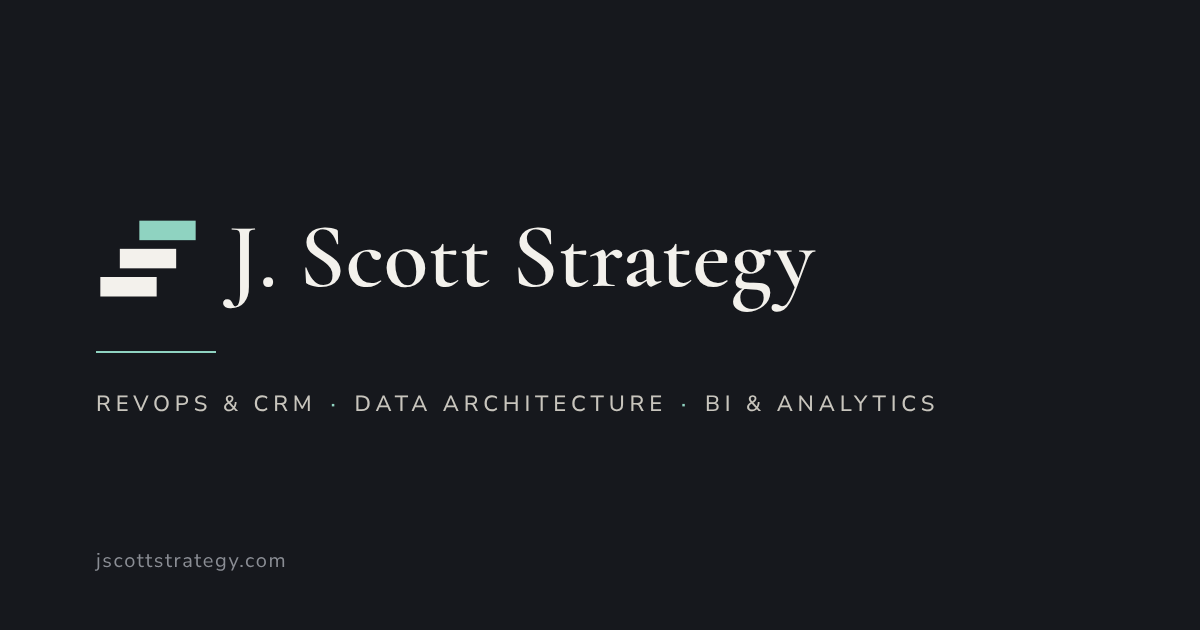
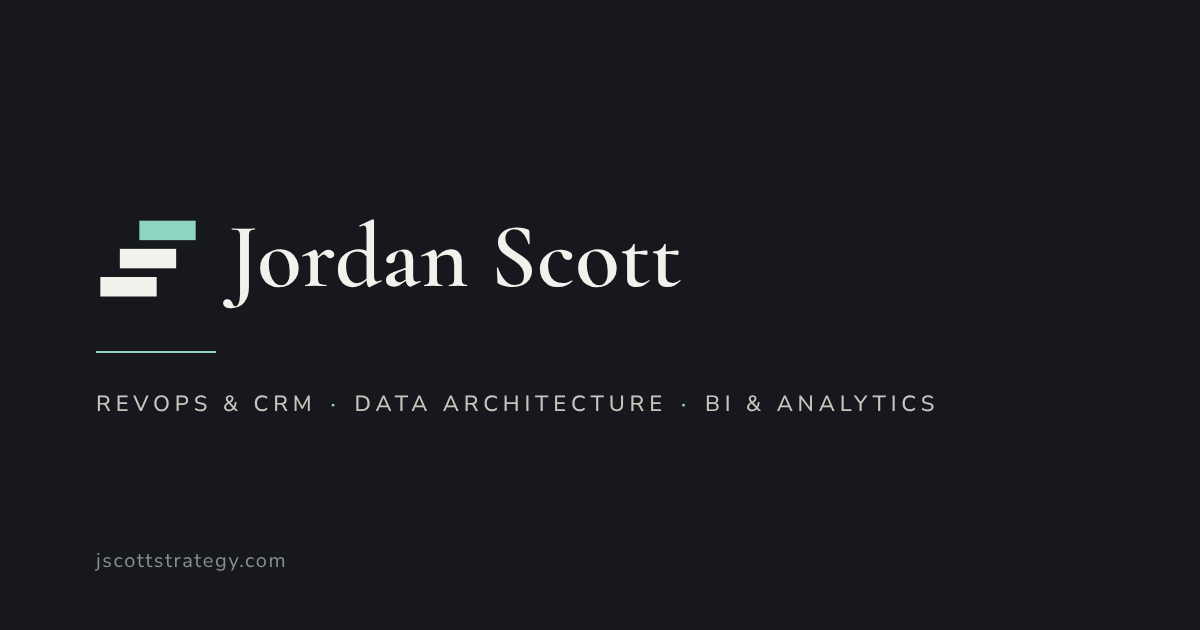
Rebrand to Jordan Scott; swap in family portrait
Claude-Session: https://claude.ai/code/session_01PBuMgssTntEE4eNKwRLDDM

Changed region(s): [[0.2158, 0.3619, 0.6783, 0.5127]]

diff --git a/index.html b/index.html
@@ -3,21 +3,21 @@
 <head>
 <meta charset="utf-8">
 <meta name="viewport" content="width=device-width, initial-scale=1">
-<title>J. Scott Strategy – RevOps, Data Architecture &amp; BI Consulting</title>
+<title>Jordan Scott – RevOps, Data Architecture &amp; BI Consulting</title>
 <link rel="icon" href="favicon.svg" type="image/svg+xml">
 <link rel="icon" href="favicon-32.png" sizes="32x32" type="image/png">
 <link rel="apple-touch-icon" href="apple-touch-icon.png">
 <meta name="theme-color" content="#16181D">
 <link rel="canonical" href="https://jscottstrategy.com/">
 <meta property="og:type" content="website">
-<meta property="og:site_name" content="J. Scott Strategy">
+<meta property="og:site_name" content="Jordan Scott">
 <meta property="og:url" content="https://jscottstrategy.com/">
-<meta property="og:title" content="J. Scott Strategy | RevOps, Data Architecture &amp; BI Consulting">
+<meta property="og:title" content="Jordan Scott | RevOps, Data Architecture &amp; BI Consulting">
 <meta property="og:description" content="RevOps and CRM, data architecture on Google BigQuery, and BI and analytics engineering for growth-stage and lower-middle-market companies.">
 <meta property="og:image" content="https://jscottstrategy.com/og-image.png">
 <meta property="og:image:width" content="1200">
 <meta property="og:image:height" content="630">
-<meta property="og:image:alt" content="J. Scott Strategy: RevOps &amp; CRM, Data Architecture, BI &amp; Analytics Engineering">
+<meta property="og:image:alt" content="Jordan Scott: RevOps &amp; CRM, Data Architecture, BI &amp; Analytics Engineering">
 <meta name="twitter:card" content="summary_large_image">
 <script type="application/ld+json">
 {
@@ -26,8 +26,11 @@
   {
    "@type": "ProfessionalService",
    "@id": "https://jscottstrategy.com/#business",
-   "name": "J. Scott Strategy",
-   "alternateName": "J Scott Strategy",
+   "name": "Jordan Scott",
+   "alternateName": [
+    "J. Scott Strategy",
+    "J Scott Strategy"
+   ],
    "url": "https://jscottstrategy.com/",
    "logo": "https://jscottstrategy.com/brand/icon-512.png",
    "image": "https://jscottstrategy.com/og-image.png",
@@ -114,7 +117,7 @@
    "@type": "WebSite",
    "@id": "https://jscottstrategy.com/#website",
    "url": "https://jscottstrategy.com/",
-   "name": "J. Scott Strategy",
+   "name": "Jordan Scott",
    "publisher": {
     "@id": "https://jscottstrategy.com/#business"
    }
@@ -282,7 +285,7 @@ nav a.cta{background:var(--ink);color:var(--ground);padding:12px 18px;font-weigh
 .chips li{font-family:'Nunito Sans',sans-serif;font-size:14px;letter-spacing:.06em;border:1px solid #B9B4A9;padding:8px 14px;background:var(--ground)}
 
 .about{padding-top:104px;padding-bottom:104px;grid-template-columns:repeat(auto-fit,minmax(min(100%,360px),1fr));gap:64px}
-.headshot{aspect-ratio:8.5/11;max-width:420px;width:100%;height:auto;align-self:start;background:#DCD8CF;border:1px solid #C9C4B9;display:flex;align-items:center;justify-content:center;color:var(--soft);font-size:14px;object-fit:cover;object-position:50% 30%}
+.headshot{aspect-ratio:8.5/11;max-width:420px;width:100%;height:auto;align-self:start;background:#DCD8CF;border:1px solid #C9C4B9;display:flex;align-items:center;justify-content:center;color:var(--soft);font-size:14px;object-fit:cover;object-position:50% 25%}
 .about h2{margin-bottom:24px}
 .about p{margin:0 0 18px;color:var(--muted)}
 .facts{display:grid;grid-template-columns:repeat(auto-fit,minmax(min(100%,220px),1fr));gap:24px;border-top:1px solid var(--line);padding-top:24px;margin-top:32px}
@@ -334,9 +337,9 @@ nav a.cta{background:var(--ink);color:var(--ground);padding:12px 18px;font-weigh
 
 <header>
   <div class="wrap nav">
-    <a class="brand" href="#top" aria-label="J. Scott Strategy home">
+    <a class="brand" href="#top" aria-label="Jordan Scott home">
       <svg width="34" height="28" viewBox="0 0 48 40" aria-hidden="true"><rect x="2" y="29" width="26" height="9" fill="currentColor"/><rect x="11" y="16" width="26" height="9" fill="currentColor"/><rect x="20" y="3" width="26" height="9" fill="#0B6B58"/></svg>
-      <span>J. Scott Strategy</span>
+      <span>Jordan Scott</span>
     </a>
     <button class="menu-toggle" type="button" aria-expanded="false" aria-controls="site-nav" aria-label="Open menu"><span class="bars" aria-hidden="true"></span></button>
     <nav id="site-nav" aria-label="Primary">
@@ -445,7 +448,7 @@ nav a.cta{background:var(--ink);color:var(--ground);padding:12px 18px;font-weigh
 
 <section id="about" class="wrap grid about">
   <div>
-    <img class="headshot" src="headshot.jpg" alt="Jordan Scott" width="840" height="840" loading="lazy">
+    <img class="headshot" src="family.jpg" alt="Jordan Scott with his wife and two daughters" width="900" height="1298" loading="lazy">
     <a class="profile-link" href="https://www.linkedin.com/in/jscottstrategy" target="_blank" rel="noopener">Connect on LinkedIn <span aria-hidden="true">↗</span></a>
   </div>
   <div>
@@ -538,7 +541,7 @@ nav a.cta{background:var(--ink);color:var(--ground);padding:12px 18px;font-weigh
   </div>
   <div class="footer">
     <div class="wrap">
-      <span>© 2026 J. Scott Strategy · <a href="privacy.html">Privacy</a> · <button type="button" data-cookie-settings>Cookie settings</button></span>
+      <span>© 2026 Jordan Scott · <a href="privacy.html">Privacy</a> · <button type="button" data-cookie-settings>Cookie settings</button></span>
       <span>Built with clean data and strong coffee in Kansas City · Working with clients globally</span>
     </div>
   </div>

diff --git a/privacy.html b/privacy.html
@@ -3,8 +3,8 @@
 <head>
 <meta charset="utf-8">
 <meta name="viewport" content="width=device-width, initial-scale=1">
-<title>Privacy Policy – J. Scott Strategy</title>
-<meta name="description" content="How J. Scott Strategy collects, uses, and protects information from visitors to jscottstrategy.com.">
+<title>Privacy Policy – Jordan Scott</title>
+<meta name="description" content="How Jordan Scott collects, uses, and protects information from visitors to jscottstrategy.com.">
 <link rel="canonical" href="https://jscottstrategy.com/privacy.html">
 <link rel="icon" href="favicon.svg" type="image/svg+xml">
 <link rel="icon" href="favicon-32.png" sizes="32x32" type="image/png">
@@ -42,9 +42,9 @@ footer a{color:#A9A69E}
 
 <header>
   <div class="wrap">
-    <a class="brand" href="/" aria-label="J. Scott Strategy home">
+    <a class="brand" href="/" aria-label="Jordan Scott home">
       <svg width="34" height="28" viewBox="0 0 48 40" aria-hidden="true"><rect x="2" y="29" width="26" height="9" fill="currentColor"/><rect x="11" y="16" width="26" height="9" fill="currentColor"/><rect x="20" y="3" width="26" height="9" fill="#0B6B58"/></svg>
-      <span>J. Scott Strategy</span>
+      <span>Jordan Scott</span>
     </a>
     <a class="back" href="/">Back to site</a>
   </div>
@@ -53,9 +53,9 @@ footer a{color:#A9A69E}
 <main class="wrap">
   <div class="eyebrow">Legal</div>
   <h1>Privacy Policy</h1>
-  <p class="updated">Last updated: October 9, 2026</p>
+  <p class="updated">Last updated: October 10, 2026</p>
 
-  <p>J. Scott Strategy is the business name of Jordan Scott, an independent consultant based in Kansas City, Missouri, United States. This policy explains what information J. Scott Strategy ("we," "us") collects when you visit jscottstrategy.com or contact us through it, how we use that information, and the choices you have.</p>
+  <p>This website is operated by Jordan Scott, an independent consultant based in Kansas City, Missouri, United States. This policy explains what information Jordan Scott ("we," "us") collects when you visit jscottstrategy.com or contact us through it, how we use that information, and the choices you have.</p>
 
   <h2>Information we collect</h2>
   <p><strong>Information you give us.</strong> When you submit the contact form, we collect your first and last name, email address, company, phone number, the type of help you're looking for, and your message. All of these fields are required so we can understand your needs and follow up.</p>
@@ -123,7 +123,7 @@ footer a{color:#A9A69E}
 
 <footer>
   <div class="wrap">
-    <span>© 2026 J. Scott Strategy · <button type="button" data-cookie-settings>Cookie settings</button></span>
+    <span>© 2026 Jordan Scott · <button type="button" data-cookie-settings>Cookie settings</button></span>
     <span>Built with clean data and strong coffee in Kansas City · Working with clients globally</span>
   </div>
 </footer>
